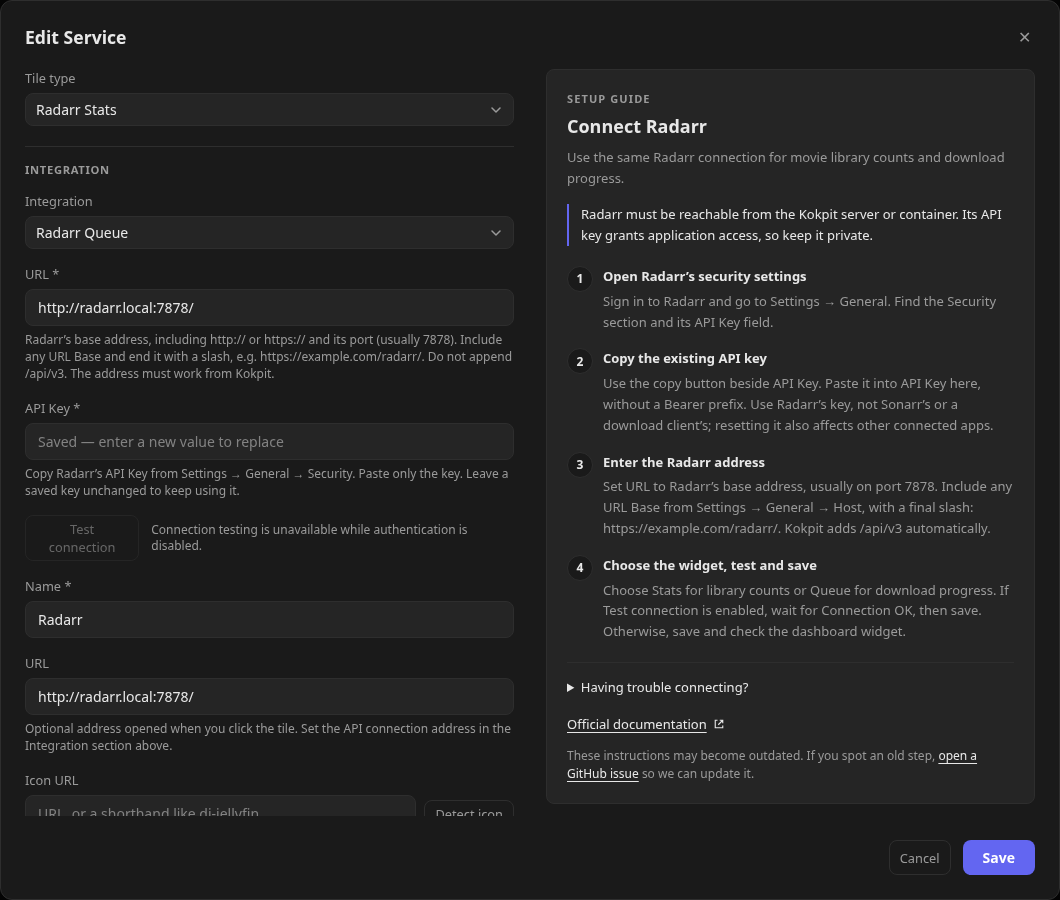
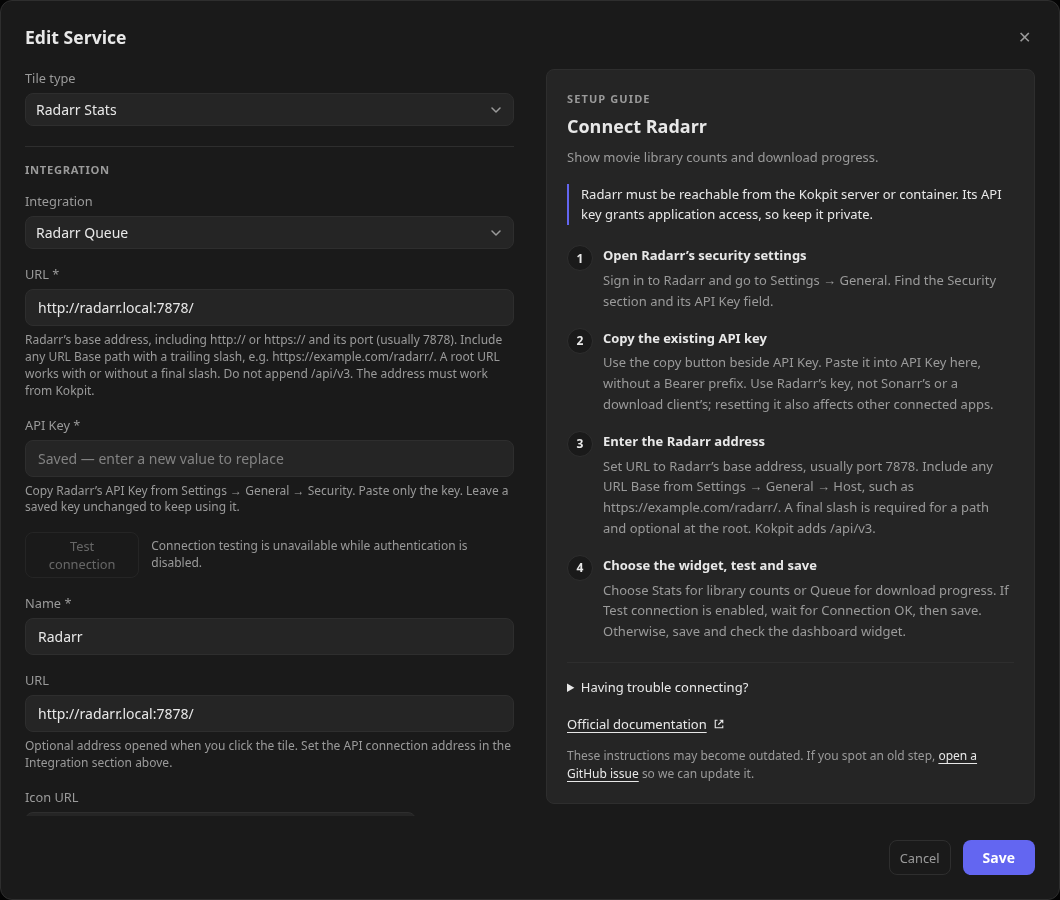
fix(radarr): clarify proxy URLs and settle refresh checks

Changed region(s): [[0.5292, 0.1556, 0.934, 0.5911], [0.0311, 0.3733, 0.467, 0.7156], [0.0311, 0.7467, 0.4981, 0.9022]]

diff --git a/src/integrations/radarr/setupGuide.ts b/src/integrations/radarr/setupGuide.ts
@@ -2,7 +2,7 @@ import type { WidgetSetupGuide } from "@/widgets";
 
 export const radarrSetupGuide: WidgetSetupGuide = {
   title: "Connect Radarr",
-  summary: "Use the same Radarr connection for movie library counts and download progress.",
+  summary: "Show movie library counts and download progress.",
   requirement: "Radarr must be reachable from the Kokpit server or container. Its API key grants application access, so keep it private.",
   steps: [
     {
@@ -15,7 +15,7 @@ export const radarrSetupGuide: WidgetSetupGuide = {
     },
     {
       title: "Enter the Radarr address",
-      description: "Set URL to Radarr’s base address, usually on port 7878. Include any URL Base from Settings → General → Host, with a final slash: https://example.com/radarr/. Kokpit adds /api/v3 automatically.",
+      description: "Set URL to Radarr’s base address, usually port 7878. Include any URL Base from Settings → General → Host, such as https://example.com/radarr/. A final slash is required for a path and optional at the root. Kokpit adds /api/v3.",
     },
     {
       title: "Choose the widget, test and save",
@@ -29,7 +29,7 @@ export const radarrSetupGuide: WidgetSetupGuide = {
     },
     {
       title: "404 or an HTML login page",
-      description: "Remove /api/v3, /movie or /queue from URL. Include the configured URL Base and end it with a slash, such as /radarr/. Check that the reverse proxy forwards API requests to Radarr.",
+      description: "Remove /api/v3, /movie or /queue from URL. Include any URL Base path with a trailing slash, such as /radarr/. Root URLs work with or without a final slash. Check that the reverse proxy forwards API requests to Radarr.",
     },
     {
       title: "Cannot reach Radarr",
@@ -47,6 +47,6 @@ export const radarrSetupGuide: WidgetSetupGuide = {
   documentationUrl: "https://wiki.servarr.com/radarr/settings#general",
 };
 
-export const radarrUrlDescription = "Radarr’s base address, including http:// or https:// and its port (usually 7878). Include any URL Base and end it with a slash, e.g. https://example.com/radarr/. Do not append /api/v3. The address must work from Kokpit.";
+export const radarrUrlDescription = "Radarr’s base address, including http:// or https:// and its port (usually 7878). Include any URL Base path with a trailing slash, e.g. https://example.com/radarr/. A root URL works with or without a final slash. Do not append /api/v3. The address must work from Kokpit.";
 
 export const radarrApiKeyDescription = "Copy Radarr’s API Key from Settings → General → Security. Paste only the key. Leave a saved key unchanged to keep using it.";

diff --git a/e2e/tests/weather-widget.spec.ts b/e2e/tests/weather-widget.spec.ts
@@ -1,5 +1,6 @@
 import { test, expect, type APIRequestContext, type Page } from "@playwright/test";
 import { expectWidgetStatLayout, expectWidgetStatContrast } from "../helpers/widget-stat";
+import { withSettledConfigurationCheck } from "../helpers/configuration-check";
 import type { WeatherData } from "../../src/integrations/weather/api";
 
 const FOOTPRINTS = [{ columnSpan: 3, rowSpan: 2 }, { columnSpan: 6, rowSpan: 2 }, { columnSpan: 6, rowSpan: 4 }];
@@ -78,21 +79,20 @@ test("Weather stale refresh retains all data and geometry, then recovers after t
   // London crosses local midnight on the first failed refresh; browser TZ differs.
   await page.clock.install({ time: new Date("2026-10-16T22:59:00Z") });
   for (const footprint of FOOTPRINTS) {
-    fails = false; await configure(request, { footprints: [footprint] }); await page.goto("/");
+    fails = false; await configure(request, { footprints: [footprint] });
+    await withSettledConfigurationCheck(page, () => page.goto("/"));
     await expect(tile(page).locator(".widget-stat").first()).toHaveText(/18°C/);
     const bounds = await tile(page).locator(".widget-stat-grid").boundingBox();
-    fails = true; await page.clock.fastForward(600_000);
+    fails = true; await withSettledConfigurationCheck(page, () => page.clock.fastForward(600_000));
     await expect(tile(page).getByRole("alert")).toHaveAccessibleName("Refresh failed; saved data is shown. Provider unavailable");
     if (footprint.rowSpan === 4) await expect(tile(page).getByText("Precip · Fri, Oct 16")).toBeVisible();
     expect(await tile(page).locator(".widget-stat-grid").boundingBox()).toEqual(bounds);
     await expect(tile(page).locator(".widget-stat").first()).toHaveText(/18°C/);
-    fails = false; await page.clock.fastForward(600_000);
-    // The clock jump can time out a configuration probe and temporarily hide
-    // the dashboard. A hidden dashboard also has no accessible alert, so wait
-    // for its retained weather content before asserting refresh recovery.
-    await expect(tile(page).locator(".widget-stat-grid")).toBeVisible();
+    // Settle the real revision check before another large clock jump can time
+    // it out and hide the dashboard during the widget recovery assertions.
+    fails = false; await withSettledConfigurationCheck(page, () => page.clock.fastForward(600_000));
     await expect(tile(page).getByRole("alert")).toHaveCount(0);
-    await expect.poll(() => tile(page).locator(".widget-stat-grid").boundingBox()).toEqual(bounds);
+    expect(await tile(page).locator(".widget-stat-grid").boundingBox()).toEqual(bounds);
   }
 });
 

diff --git a/README.md b/README.md
@@ -1154,7 +1154,7 @@ Two widgets are available for Radarr: a stats overview and a download queue moni
 
 **Prerequisites:** A Radarr instance reachable from Kokpit and its API key. Sign in to Radarr, open **Settings → General → Security**, and copy the existing **API Key**. Paste only the key into Kokpit; resetting it affects other apps that use it.
 
-Stats and Queue share the Add/Edit Service form's numbered setup guide, field help, troubleshooting, and outdated-instructions issue link. Enter the base URL (usually port 7878), including any configured URL Base **with a trailing slash**, such as `https://example.com/radarr/`. Kokpit appends `/api/v3` and sends the key in `X-Api-Key`. Use **Test connection** when enabled, then save; otherwise save and check the dashboard. See the [official Radarr settings](https://wiki.servarr.com/radarr/settings#general) and [API reference](https://radarr.video/docs/api/).
+Stats and Queue share the Add/Edit Service form's numbered setup guide, field help, troubleshooting, and outdated-instructions issue link. Enter the base URL (usually port 7878), including any configured URL Base. A path such as `https://example.com/radarr/` **requires a trailing slash**; a root URL such as `http://192.168.1.10:7878` works with or without one. Kokpit appends `/api/v3` and sends the key in `X-Api-Key`. Use **Test connection** when enabled, then save; otherwise save and check the dashboard. See the [official Radarr settings](https://wiki.servarr.com/radarr/settings#general) and [API reference](https://radarr.video/docs/api/).
 
 #### `radarr-stats`
 
@@ -1169,7 +1169,7 @@ services:
     integration:
       type: radarr
       config:
-        url: http://192.168.1.10:7878
+        url: http://192.168.1.10:7878/
         api_key: YOUR_API_KEY
 service_tiles:
   - id: 20000000-0000-4000-8000-000000000024
@@ -1181,7 +1181,7 @@ service_tiles:
 
 | Field     | Required | Description                              |
 | --------- | -------- | ---------------------------------------- |
-| `url`     | Yes      | Reachable Radarr base URL; include any URL Base and end it with `/` |
+| `url`     | Yes      | Reachable Radarr base URL; include any URL Base path with a trailing `/` (optional at the root) |
 | `api_key` | Yes      | Existing API Key from Settings → General → Security |
 
 Detailed (3×4) shows the six metrics in two columns and three rows; Wide (6×2) shows the same metrics in one row. The default refresh interval is 60 seconds; an editor override is in milliseconds (minimum 5,000).
@@ -1213,7 +1213,7 @@ services:
     integration:
       type: radarr
       config:
-        url: http://192.168.1.10:7878
+        url: http://192.168.1.10:7878/
         api_key: YOUR_API_KEY
 service_tiles:
   - id: 20000000-0000-4000-8000-000000000025
@@ -1225,7 +1225,7 @@ service_tiles:
 
 | Field     | Required | Description                              |
 | --------- | -------- | ---------------------------------------- |
-| `url`     | Yes      | Reachable Radarr base URL; include any URL Base and end it with `/` |
+| `url`     | Yes      | Reachable Radarr base URL; include any URL Base path with a trailing `/` (optional at the root) |
 | `api_key` | Yes      | Existing API Key from Settings → General → Security |
 
 The Default footprint is 3×4, with a scrolling queue. The default refresh interval is 15 seconds; an editor override is in milliseconds (minimum 5,000).

diff --git a/docs/integration-setup-guidance-proposal.md b/docs/integration-setup-guidance-proposal.md
@@ -157,7 +157,7 @@ Checked 23 October 2026 against the [official Sonarr settings guide](https://wik
 Checked 23 October 2026 against the [official Radarr settings guide](https://wiki.servarr.com/radarr/settings#general), [API reference](https://radarr.video/docs/api/), upstream [Security settings UI](https://github.com/Radarr/Radarr/blob/develop/frontend/src/Settings/General/SecuritySettings.tsx), and [OpenAPI definition](https://github.com/Radarr/Radarr/blob/develop/src/Radarr.Api.V3/openapi.json).
 
 - **Getting the key:** General → Security has the existing API Key and copy/reset buttons. The guide explains copying the application key and the effect of resetting it. No separate read-only key creation is claimed.
-- **Address:** the official Host section documents URL Base for reverse proxies. Kokpit's shared HTTP helper preserves that path only when the configured URL ends with `/`, so the guide and URL help use `https://example.com/radarr/`. The v3 API uses `X-Api-Key`; the user does not append `/api/v3`.
+- **Address:** the official Host section documents URL Base for reverse proxies. Kokpit's shared HTTP helper preserves that path only when it ends with `/`, so the guide and URL help use `https://example.com/radarr/`. A root URL works with or without a final slash. The v3 API uses `X-Api-Key`; the user does not append `/api/v3`.
 - **Widget behavior:** checked `src/integrations/radarr/api.ts` and both widget definitions/renderers. Stats fetches movies plus the reported queue total. Missing means monitored, no file, and `isAvailable`; Wanted means monitored with no file; Available means `hasFile`; Upcoming means announced or in cinemas. Detailed and Wide show the same six metrics, with a 60-second default refresh.
 - Queue requests one page of 25, includes movie data and excludes unknown movie items. Its default footprint is a scrolling 3×4 list and its default refresh is 15 seconds. No queue limit/filter controls are claimed.
 - Both widgets inherit the shared outdated-instructions disclaimer and GitHub issue link. Preview screenshots use an isolated configuration and a dummy key; live Radarr connectivity has not been tested.
